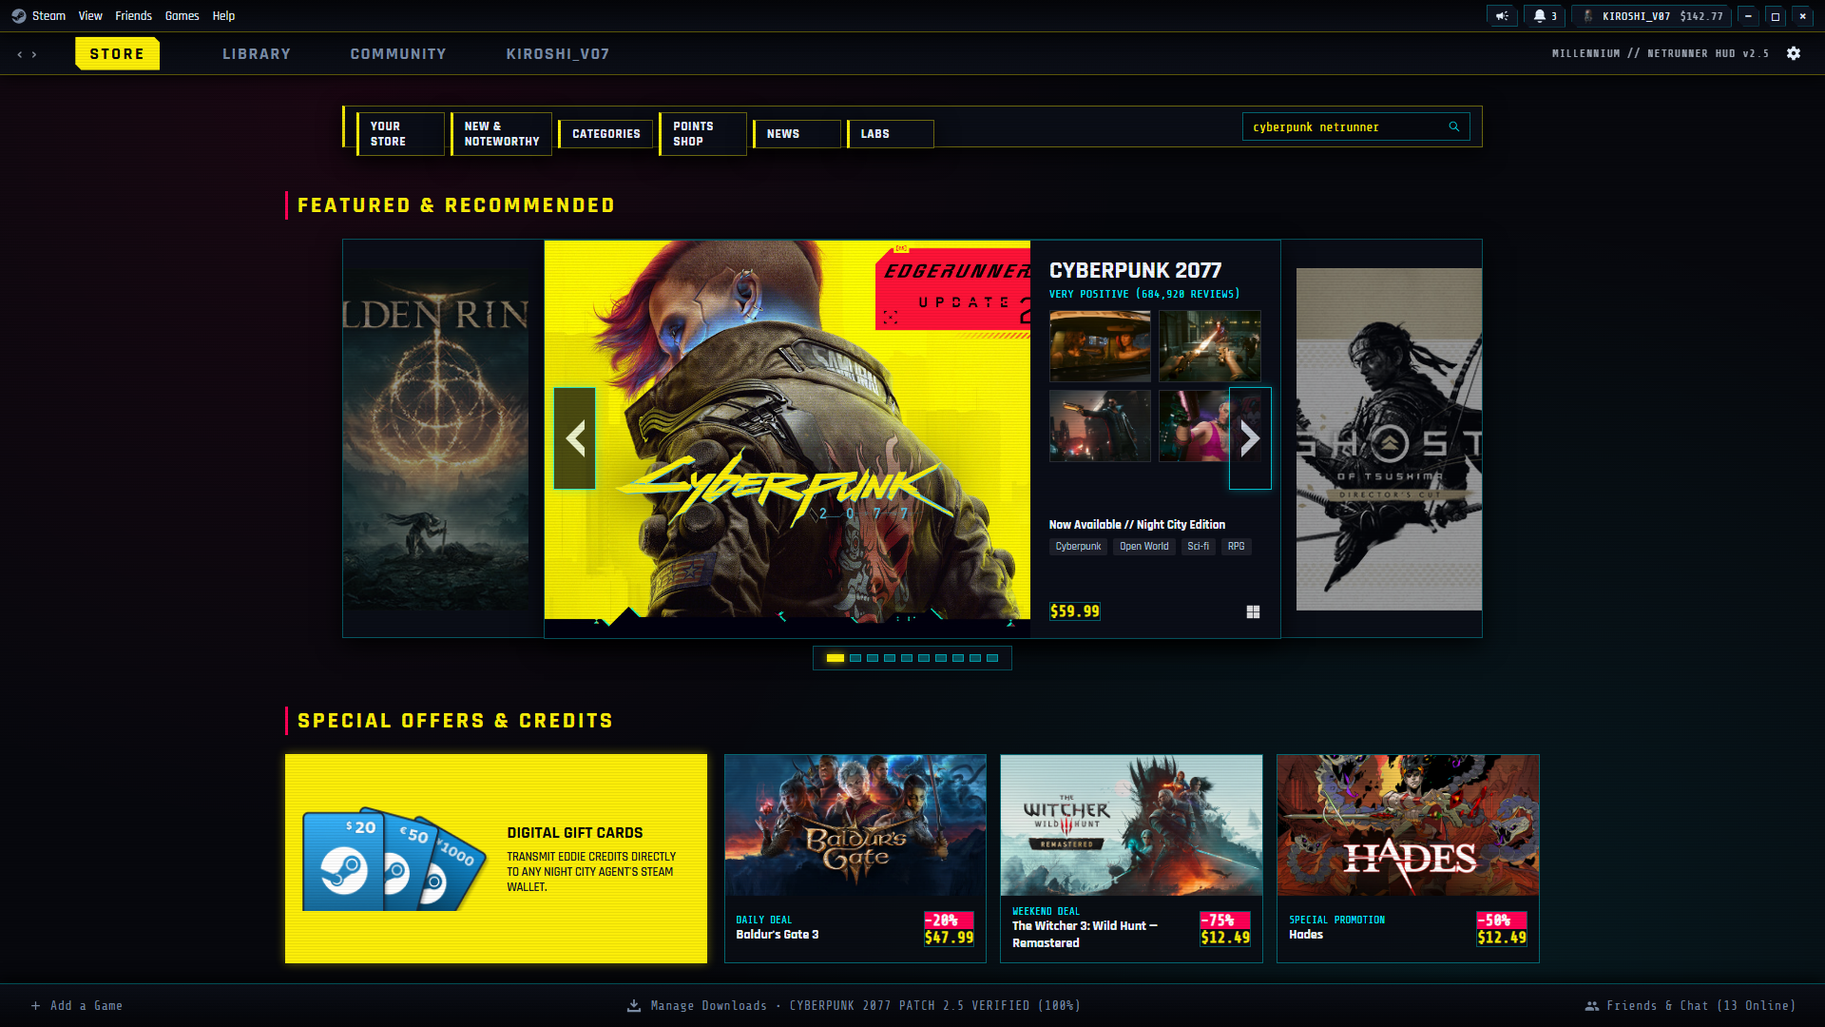
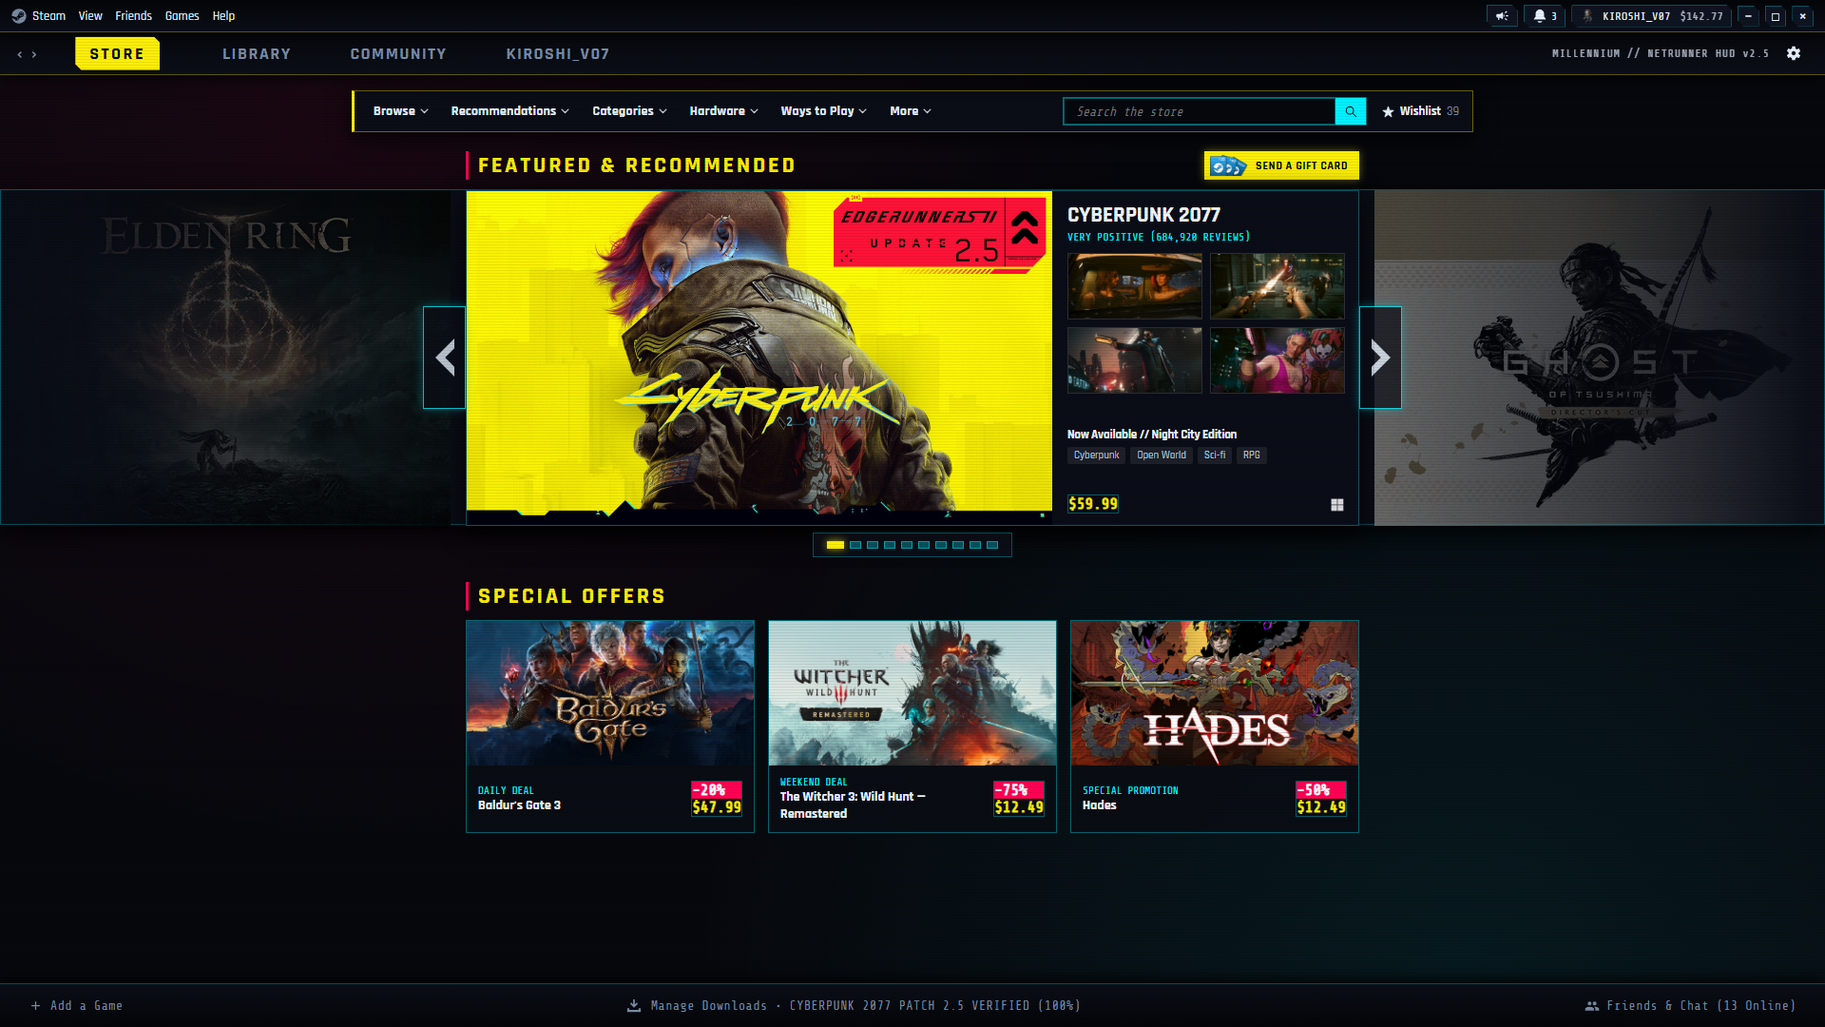
Fix Storefront hero carousel layout and modern Store nav

diff --git a/cyberpunk_steam_studio.html b/cyberpunk_steam_studio.html
@@ -534,55 +534,126 @@
 }
 #steam-window .home_cluster_ctn {
   width: 100%;
-  padding: 12px 18px 20px 18px;
+  padding: 12px 0 18px 0;
   display: flex;
   flex-direction: column;
   align-items: center;
 }
-#steam-window div#store_nav_area {
+#steam-window .dm2SGcwBwj4- {
   width: 100%;
-  max-width: min(100%, var(--cp-store-max-width, 1200px));
-  margin-bottom: 12px;
+  max-width: min(calc(100% - 36px), var(--cp-store-max-width, 1200px));
+  margin: 0 auto 14px;
 }
-#steam-window div#store_nav_area .store_nav_bg {
+#steam-window .dm2SGcwBwj4- .WCG-2-OYepA- {
   height: 36px;
+  margin: 0 auto !important;
+  padding: 0 10px 0 14px !important;
   display: flex;
   align-items: center;
   justify-content: space-between;
-  padding: 0 10px;
+  gap: 10px;
 }
-#steam-window .store_nav_links { display: flex; align-items: center; gap: 3px; flex-wrap: nowrap; }
-#steam-window .store_header_btn { padding: 5px 8px; font-size: 10.5px; font-weight: 700; text-transform: uppercase; letter-spacing: 0.6px; white-space: nowrap; }
-#steam-window #store_nav_search_term { height: 24px; width: 155px; padding: 0 24px 0 8px; font-size: 11px; }
+#steam-window .store_nav_links { display: flex; align-items: center; gap: 15px; flex-wrap: nowrap; }
+#steam-window .store_nav_link {
+  display: inline-flex;
+  align-items: center;
+  gap: 4px;
+  font-size: 11.5px;
+  font-weight: 700;
+  color: #e6f1ff;
+  white-space: nowrap;
+  cursor: pointer;
+}
+#steam-window .store_nav_right { display: flex; align-items: center; gap: 12px; margin-left: auto; }
+#steam-window .store_search_wrap {
+  display: flex;
+  align-items: center;
+  height: 24px;
+  border: 1px solid rgba(var(--cp-rgb-cyan), 0.45);
+  background: var(--cp-bg-dark);
+}
+#steam-window ._5fxF1NcznNc- {
+  height: 22px;
+  width: 190px;
+  padding: 0 8px;
+  font-size: 11px;
+  font-style: italic;
+  background: transparent !important;
+  border: none !important;
+  color: #93a7be !important;
+  outline: none;
+}
+#steam-window .store_search_btn {
+  width: 24px;
+  height: 22px;
+  display: flex;
+  align-items: center;
+  justify-content: center;
+  background: var(--cp-cyan);
+  color: #050608;
+  flex-shrink: 0;
+}
+#steam-window .store_wishlist_pill {
+  display: inline-flex;
+  align-items: center;
+  gap: 5px;
+  font-size: 11.5px;
+  font-weight: 700;
+  color: #e6f1ff;
+  white-space: nowrap;
+}
 #steam-window .home_pagecontent_ctn {
   width: 100%;
-  max-width: min(100%, var(--cp-store-max-width, 1200px)) !important;
+  max-width: 100% !important;
+  padding: 0 !important;
   margin: 0 auto;
 }
+#steam-window .home_featured_header {
+  width: 764px;
+  margin: 0 auto 8px;
+  display: flex;
+  align-items: center;
+  justify-content: space-between;
+}
+#steam-window .home_gift_card_link.home_gift_pill {
+  display: inline-flex;
+  align-items: center;
+  gap: 6px;
+  height: 25px;
+  padding: 2px 10px 2px 5px;
+  text-decoration: none;
+  font-size: 10.5px;
+  font-weight: 800;
+  letter-spacing: 0.5px;
+  color: #050608 !important;
+}
+#steam-window .home_gift_card_link.home_gift_pill img {
+  height: 18px;
+  width: auto;
+  object-fit: contain;
+  display: block;
+}
 #steam-window #home_maincap_v7.carousel_wide_mode { position: relative; width: 100%; }
-#steam-window .carousel_container.maincap { position: relative !important; width: 100%; padding: 0 42px; }
-#steam-window .carousel_wide_stage { display: grid; grid-template-columns: 116px 1fr 116px; gap: 12px; align-items: center; height: 292px; }
-#steam-window .carousel_wide_mode .carousel_container .arrow { position: absolute !important; top: 0 !important; bottom: 0 !important; z-index: 30 !important; display: flex !important; align-items: center !important; justify-content: center !important; width: 34px !important; cursor: pointer; }
-#steam-window .carousel_wide_mode .carousel_container .arrow.left { left: 2px !important; right: auto !important; }
-#steam-window .carousel_wide_mode .carousel_container .arrow.right { right: 2px !important; left: auto !important; }
-#steam-window .side_peek_card { height: 248px; position: relative; overflow: hidden; opacity: 0.56; filter: saturate(0.75); cursor: pointer; }
-#steam-window .side_peek_card img { width: 100%; height: 100%; object-fit: cover; }
-#steam-window .store_main_capsule { height: 292px; display: flex; flex-direction: row; overflow: hidden; width: 100%; position: relative; }
-#steam-window .store_main_capsule .capsule_main_media { width: 62%; height: 100%; position: relative; overflow: hidden; }
+#steam-window .carousel_container.maincap { position: relative !important; width: 100%; padding: 0 !important; }
+#steam-window .carousel_wide_stage { display: grid; grid-template-columns: 1fr 764px 1fr; gap: 14px; align-items: center; height: 286px; width: 100%; }
+#steam-window .side_peek_card { height: 286px; position: relative; overflow: hidden; cursor: pointer; }
+#steam-window .side_peek_card img { width: 100%; height: 100%; object-fit: cover; filter: grayscale(0.45) brightness(0.45); }
+#steam-window .side_peek_card.peek_left { -webkit-mask-image: linear-gradient(to left, rgba(0,0,0,0.9) 0%, rgba(0,0,0,0.45) 55%, rgba(0,0,0,0.03) 96%); mask-image: linear-gradient(to left, rgba(0,0,0,0.9) 0%, rgba(0,0,0,0.45) 55%, rgba(0,0,0,0.03) 96%); }
+#steam-window .side_peek_card.peek_right { -webkit-mask-image: linear-gradient(to right, rgba(0,0,0,0.9) 0%, rgba(0,0,0,0.45) 55%, rgba(0,0,0,0.03) 96%); mask-image: linear-gradient(to right, rgba(0,0,0,0.9) 0%, rgba(0,0,0,0.45) 55%, rgba(0,0,0,0.03) 96%); }
+#steam-window .store_main_capsule { width: 764px; height: 286px; display: flex; flex-direction: row; overflow: hidden; position: relative; }
+#steam-window .store_main_capsule .capsule_main_media { width: 500px; height: 286px; flex-shrink: 0; position: relative; overflow: hidden; }
 #steam-window .store_main_capsule .capsule_main_media img { width: 100%; height: 100%; object-fit: cover; display: block; }
-#steam-window .store_main_capsule .capsule_info_col { width: 38%; padding: 12px 14px; display: flex; flex-direction: column; justify-content: space-between; }
-#steam-window .capsule_title { font-size: 19px; font-weight: 700; color: #f0f6ff; text-transform: uppercase; line-height: 1.05; }
-#steam-window .capsule_screenshots { display: grid; grid-template-columns: 1fr 1fr; gap: 6px; margin: 6px 0; }
-#steam-window .capsule_screenshots img { width: 100%; height: 54px; object-fit: cover; border: 1px solid rgba(255,255,255,0.14); }
+#steam-window .store_main_capsule .capsule_info_col { width: 264px; height: 286px; flex-shrink: 0; padding: 11px 13px; display: flex; flex-direction: column; justify-content: space-between; }
+#steam-window .capsule_title { font-size: 18px; font-weight: 700; color: #f0f6ff; text-transform: uppercase; line-height: 1.06; }
+#steam-window .capsule_screenshots { display: grid; grid-template-columns: 1fr 1fr; gap: 6px; margin: 7px 0 3px; }
+#steam-window .capsule_screenshots img { width: 100%; height: 55px; object-fit: cover; border: 1px solid rgba(255,255,255,0.14); }
 #steam-window .capsule_tags { display: flex; flex-wrap: wrap; gap: 4px; }
 #steam-window .capsule_tag { background: rgba(255,255,255,0.08); color: #b4c6dc; font-size: 10px; padding: 1px 6px; border-radius: 2px; }
 #steam-window .capsule_footer { display: flex; align-items: center; justify-content: space-between; }
-#steam-window .home_gift_card_strip { width: 100%; margin: 14px auto 0; display: grid; grid-template-columns: 1.45fr 3fr; gap: 12px; }
-#steam-window .home_gift_card_link { display: flex; align-items: center; gap: 12px; padding: 10px 14px; height: 152px; text-decoration: none; color: #050608 !important; }
-#steam-window .home_gift_card_link img { height: 86px; width: auto; object-fit: contain; flex-shrink: 0; }
+#steam-window .special_offers_section { width: 764px; margin: 10px auto 0; }
 #steam-window .special_offers_grid { display: grid; grid-template-columns: repeat(3, 1fr); gap: 10px; }
-#steam-window .special_offer_card { display: flex; flex-direction: column; overflow: hidden; height: 152px; cursor: pointer; }
-#steam-window .special_offer_card img { width: 100%; height: 98px; object-fit: cover; display: block; }
+#steam-window .special_offer_card { display: flex; flex-direction: column; overflow: hidden; height: 156px; cursor: pointer; }
+#steam-window .special_offer_card img { width: 100%; height: 104px; object-fit: cover; display: block; }
 #steam-window .special_offer_meta { padding: 6px 8px; display: flex; align-items: center; justify-content: space-between; flex: 1; }
 #steam-window .carousel_container .carousel_thumbs > div { cursor: pointer; }
 
@@ -2079,16 +2150,29 @@
 #steam-window .carousel_wide_mode .carousel_container.maincap .arrow:hover,
 #steam-window .carousel_wide_mode .carousel_container.maincap .arrow.left:hover,
 #steam-window .carousel_wide_mode .carousel_container.maincap .arrow.right:hover {
-  width: 46px !important;
-  justify-content: center !important;
+  position: absolute !important;
+  top: 0 !important;
+  bottom: 0 !important;
+  z-index: 30 !important;
+  display: flex !important;
+  align-items: center !important;
+  width: max(46px, calc((100% - 764px) / 2 - 4px)) !important;
+  padding: 0 !important;
+  cursor: pointer;
 }
-#steam-window .carousel_wide_mode .carousel_container .arrow.left {
-  left: -4px !important;
+#steam-window .carousel_wide_mode .carousel_container .arrow.left,
+#steam-window .carousel_wide_mode .carousel_container .arrow.left:hover,
+#steam-window .carousel_wide_mode .carousel_container.maincap .arrow.left:hover {
+  left: 0 !important;
   right: auto !important;
+  justify-content: flex-end !important;
 }
-#steam-window .carousel_wide_mode .carousel_container .arrow.right {
-  right: -4px !important;
+#steam-window .carousel_wide_mode .carousel_container .arrow.right,
+#steam-window .carousel_wide_mode .carousel_container .arrow.right:hover,
+#steam-window .carousel_wide_mode .carousel_container.maincap .arrow.right:hover {
+  right: 0 !important;
   left: auto !important;
+  justify-content: flex-start !important;
 }
 
 </style>
@@ -2663,33 +2747,47 @@
                 <!-- 2. STOREFRONT WEBKIT VIEW -->
                 <div id="client-view-store" class="home_page_body_ctn responsive_page_frame hidden">
                   <div class="home_cluster_ctn">
-                    <div id="store_nav_area">
-                      <div class="store_nav_bg">
+                    <div class="dm2SGcwBwj4-">
+                      <div class="WCG-2-OYepA-">
                         <div class="store_nav_links">
-                          <span class="store_header_btn">Your Store</span>
-                          <span class="store_header_btn">New &amp; Noteworthy</span>
-                          <span class="store_header_btn">Categories</span>
-                          <span class="store_header_btn">Points Shop</span>
-                          <span class="store_header_btn">News</span>
+                          <span class="store_nav_link">Browse <svg viewBox="0 0 12 8" fill="none" stroke="currentColor" stroke-width="1.8" stroke-linecap="round" stroke-linejoin="round" style="width:9px;height:6px;opacity:.85;"><path d="M1.5 1.5L6 6L10.5 1.5"/></svg></span>
+                          <span class="store_nav_link">Recommendations <svg viewBox="0 0 12 8" fill="none" stroke="currentColor" stroke-width="1.8" stroke-linecap="round" stroke-linejoin="round" style="width:9px;height:6px;opacity:.85;"><path d="M1.5 1.5L6 6L10.5 1.5"/></svg></span>
+                          <span class="store_nav_link">Categories <svg viewBox="0 0 12 8" fill="none" stroke="currentColor" stroke-width="1.8" stroke-linecap="round" stroke-linejoin="round" style="width:9px;height:6px;opacity:.85;"><path d="M1.5 1.5L6 6L10.5 1.5"/></svg></span>
+                          <span class="store_nav_link">Hardware <svg viewBox="0 0 12 8" fill="none" stroke="currentColor" stroke-width="1.8" stroke-linecap="round" stroke-linejoin="round" style="width:9px;height:6px;opacity:.85;"><path d="M1.5 1.5L6 6L10.5 1.5"/></svg></span>
+                          <span class="store_nav_link">Ways to Play <svg viewBox="0 0 12 8" fill="none" stroke="currentColor" stroke-width="1.8" stroke-linecap="round" stroke-linejoin="round" style="width:9px;height:6px;opacity:.85;"><path d="M1.5 1.5L6 6L10.5 1.5"/></svg></span>
+                          <span class="store_nav_link">More <svg viewBox="0 0 12 8" fill="none" stroke="currentColor" stroke-width="1.8" stroke-linecap="round" stroke-linejoin="round" style="width:9px;height:6px;opacity:.85;"><path d="M1.5 1.5L6 6L10.5 1.5"/></svg></span>
                         </div>
-                        <div style="position:relative;display:flex;align-items:center;">
-                          <input id="store_nav_search_term" type="text" value="cyberpunk netrunner" readonly/>
-                          <span style="position:absolute;right:8px;width:12px;height:12px;color:var(--cp-cyan);display:flex;"><svg xmlns="http://www.w3.org/2000/svg" class="SVGIcon_Button SVGIcon_MagnifyingGlass" viewBox="0 0 100 100" fill="currentColor"><g transform="translate(0,-952.36218)"><path fill="currentColor" d="m 40.99855,964.36216 c -15.9798,0 -28.9986,13.01864 -28.9986,28.99862 0,15.97992 13.0188,28.99862 28.9986,28.99862 6.9189,0 13.2881,-2.4349 18.2803,-6.4997 l 23.5927,23.6239 c 1.1714,1.1714 3.0784,1.1715 4.2498,0 1.1716,-1.1715 1.1716,-3.0783 0,-4.2498 l -23.6239,-23.5926 c 4.0649,-4.9923 6.4997,-11.3615 6.4997,-18.28042 0,-15.97998 -13.0187,-28.99862 -28.9986,-28.99862 z m 0,5.99972 c 12.7374,0 22.9989,10.26145 22.9989,22.9989 0,12.73732 -10.2615,22.99892 -22.9989,22.99892 -12.7374,0 -22.9989,-10.2616 -22.9989,-22.99892 0,-12.73745 10.2615,-22.9989 22.9989,-22.9989 z"/></g></svg></span>
+                        <div class="store_nav_right">
+                          <div class="store_search_wrap">
+                            <input id="store_nav_search_term" class="_5fxF1NcznNc-" type="text" placeholder="Search the store" value="" readonly/>
+                            <div class="store_search_btn"><span style="width:12px;height:12px;display:flex;"><svg xmlns="http://www.w3.org/2000/svg" class="SVGIcon_Button SVGIcon_MagnifyingGlass" viewBox="0 0 100 100" fill="currentColor"><g transform="translate(0,-952.36218)"><path fill="currentColor" d="m 40.99855,964.36216 c -15.9798,0 -28.9986,13.01864 -28.9986,28.99862 0,15.97992 13.0188,28.99862 28.9986,28.99862 6.9189,0 13.2881,-2.4349 18.2803,-6.4997 l 23.5927,23.6239 c 1.1714,1.1714 3.0784,1.1715 4.2498,0 1.1716,-1.1715 1.1716,-3.0783 0,-4.2498 l -23.6239,-23.5926 c 4.0649,-4.9923 6.4997,-11.3615 6.4997,-18.28042 0,-15.97998 -13.0187,-28.99862 -28.9986,-28.99862 z m 0,5.99972 c 12.7374,0 22.9989,10.26145 22.9989,22.9989 0,12.73732 -10.2615,22.99892 -22.9989,22.99892 -12.7374,0 -22.9989,-10.2616 -22.9989,-22.99892 0,-12.73745 10.2615,-22.9989 22.9989,-22.9989 z"/></g></svg></span></div>
+                          </div>
+                          <div class="store_wishlist_pill">
+                            <span style="width:11px;height:11px;display:flex;color:#e6f1ff;"><svg version="1.1" xmlns="http://www.w3.org/2000/svg" class="SVGIcon_Button SVGIcon_Star_Filled" viewBox="0 0 256 256"><path fill="currentColor" stroke="currentColor" stroke-width="10" stroke-miterlimit="10" d="M127.755,18.624c-2.061,0.101-3.846,1.465-4.485,3.427L98.312,96.933H18.379c-2.745,0.01-4.963,2.242-4.955,4.989c0.006,1.572,0.754,3.05,2.019,3.984l64.925,47.476L55.41,230.873c-0.848,2.612,0.582,5.417,3.192,6.265c1.521,0.495,3.186,0.228,4.475-0.719L128,188.945l64.926,47.474c2.212,1.624,5.324,1.144,6.947-1.071c0.944-1.29,1.211-2.954,0.719-4.475l-24.959-77.492l64.922-47.476c2.211-1.63,2.681-4.743,1.049-6.953c-0.934-1.265-2.41-2.015-3.984-2.02H157.69l-24.959-74.882C132.033,19.917,129.997,18.513,127.755,18.624z"/></svg></span>
+                            <span>Wishlist</span>
+                            <span style="color:#7a8ba8;font-weight:500;">39</span>
+                          </div>
                         </div>
                       </div>
                     </div>
 
                     <div class="home_pagecontent_ctn">
-                      <h2 class="home_page_content_title">FEATURED &amp; RECOMMENDED</h2>
+                      <div class="home_featured_header">
+                        <h2 class="home_page_content_title" style="margin:0;">FEATURED &amp; RECOMMENDED</h2>
+                        <a class="home_gift_card_link home_gift_pill" href="#giftcards" onclick="return false;">
+                          <img src="https://cdn.akamai.steamstatic.com/store/home/gc_fan.webp" alt="Steam Digital Gift Cards" onerror="this.style.opacity='0'"/>
+                          <span>SEND A GIFT CARD</span>
+                        </a>
+                      </div>
                       <div id="home_maincap_v7" class="carousel_wide_mode">
                         <div class="carousel_container maincap">
                           <div class="carousel_items">
                             <div class="carousel_wide_stage">
-                              <div class="side_peek_card" onclick="stepStoreSlide(-1)">
+                              <div class="side_peek_card peek_left" onclick="stepStoreSlide(-1)">
                                 <img id="store-prev-img" src="https://shared.fastly.steamstatic.com/store_item_assets/steam/apps/1145360/capsule_616x353.jpg?t=1758127023" alt="Prev" onerror="this.style.opacity='0'"/>
                               </div>
                               <div class="store_main_capsule">
-                                <div id="preview-store-ribbon" style="position:absolute;top:12px;left:12px;z-index:5;padding:3px 9px;background:var(--cp-yellow);color:#05060a;font-family:'Share Tech Mono',monospace;font-size:10px;font-weight:800;letter-spacing:1px;">TOP SELLER // FEATURED</div>
+                                <div id="preview-store-ribbon" style="position:absolute;top:10px;left:10px;z-index:5;padding:3px 8px;background:var(--cp-yellow);color:#05060a;font-family:'Share Tech Mono',monospace;font-size:10px;font-weight:800;letter-spacing:1px;">TOP SELLER // FEATURED</div>
                                 <div class="capsule_main_media">
                                   <img id="store-main-img" src="https://shared.fastly.steamstatic.com/store_item_assets/steam/apps/1091500/f5283a1d1a2a44b9b67a861cc2e047859557a872/capsule_616x353_alt_assets_9_2x.jpg?t=1794474878" alt="Cyberpunk 2077" onerror="this.style.opacity='0'"/>
                                 </div>
@@ -2715,7 +2813,7 @@
                                   </div>
                                 </div>
                               </div>
-                              <div class="side_peek_card" onclick="stepStoreSlide(1)">
+                              <div class="side_peek_card peek_right" onclick="stepStoreSlide(1)">
                                 <img id="store-next-img" src="https://shared.fastly.steamstatic.com/store_item_assets/steam/apps/1245620/capsule_616x353.jpg?t=1790290043" alt="Next" onerror="this.style.opacity='0'"/>
                               </div>
                             </div>
@@ -2726,15 +2824,8 @@
                         </div>
                       </div>
 
-                      <h2 class="home_page_content_title" style="margin-top:14px;">SPECIAL OFFERS &amp; CREDITS</h2>
-                      <div class="home_gift_card_strip" style="margin-top:8px;">
-                        <a class="home_gift_card_link" href="#giftcards" onclick="return false;">
-                          <img src="https://cdn.akamai.steamstatic.com/store/home/gc_fan.webp" alt="Steam Digital Gift Cards" onerror="this.style.opacity='0'"/>
-                          <div>
-                            <div style="font-size:14px;font-weight:800;color:#050608;text-transform:uppercase;">Digital Gift Cards</div>
-                            <div style="font-size:10.5px;font-weight:600;color:#121722;margin-top:4px;line-height:1.25;">Send Steam Wallet Credits to Night City agents.</div>
-                          </div>
-                        </a>
+                      <div class="special_offers_section">
+                        <h2 class="home_page_content_title" style="margin:0 0 8px 0;">SPECIAL OFFERS</h2>
                         <div class="special_offers_grid"><div class="special_offer_card" onclick="selectStudioGame('1086940')" style="background:rgba(10,13,20,0.92);border:1px solid rgba(var(--cp-rgb-cyan),0.4);"><img src="https://shared.fastly.steamstatic.com/store_item_assets/steam/apps/1086940/59827b3d0abf2f29adacfe72fdfd11059d6974e2/capsule_616x353_2x.jpg?t=1777363040" alt="Baldur's Gate 3" onerror="this.style.opacity='0'"/><div class="special_offer_meta"><div style="min-width:0;"><div style="font-size:9.5px;font-family:'Share Tech Mono',monospace;color:var(--cp-cyan);">DAILY DEAL</div><div style="font-size:12px;font-weight:700;color:#eef6ff;white-space:nowrap;overflow:hidden;text-overflow:ellipsis;">Baldur's Gate 3</div></div><div class="discount_block"><div class="discount_pct">-20%</div><div class="discount_final_price">$47.99</div></div></div></div><div class="special_offer_card" onclick="selectStudioGame('292030')" style="background:rgba(10,13,20,0.92);border:1px solid rgba(var(--cp-rgb-cyan),0.4);"><img src="https://shared.fastly.steamstatic.com/store_item_assets/steam/apps/292030/7abf00646609445b27a44cafaa11adb9f125fb43/capsule_616x353_2x.jpg?t=1793900434" alt="The Witcher 3: Wild Hunt — Remastered" onerror="this.style.opacity='0'"/><div class="special_offer_meta"><div style="min-width:0;"><div style="font-size:9.5px;font-family:'Share Tech Mono',monospace;color:var(--cp-cyan);">WEEKEND</div><div style="font-size:12px;font-weight:700;color:#eef6ff;white-space:nowrap;overflow:hidden;text-overflow:ellipsis;">The Witcher 3: Wild Hunt — Remastered</div></div><div class="discount_block"><div class="discount_pct">-75%</div><div class="discount_final_price">$12.49</div></div></div></div><div class="special_offer_card" onclick="selectStudioGame('1145360')" style="background:rgba(10,13,20,0.92);border:1px solid rgba(var(--cp-rgb-cyan),0.4);"><img src="https://shared.fastly.steamstatic.com/store_item_assets/steam/apps/1145360/capsule_616x353.jpg?t=1758127023" alt="Hades" onerror="this.style.opacity='0'"/><div class="special_offer_meta"><div style="min-width:0;"><div style="font-size:9.5px;font-family:'Share Tech Mono',monospace;color:var(--cp-cyan);">PROMO</div><div style="font-size:12px;font-weight:700;color:#eef6ff;white-space:nowrap;overflow:hidden;text-overflow:ellipsis;">Hades</div></div><div class="discount_block"><div class="discount_pct">-50%</div><div class="discount_final_price">$12.49</div></div></div></div></div>
                       </div>
                     </div>
